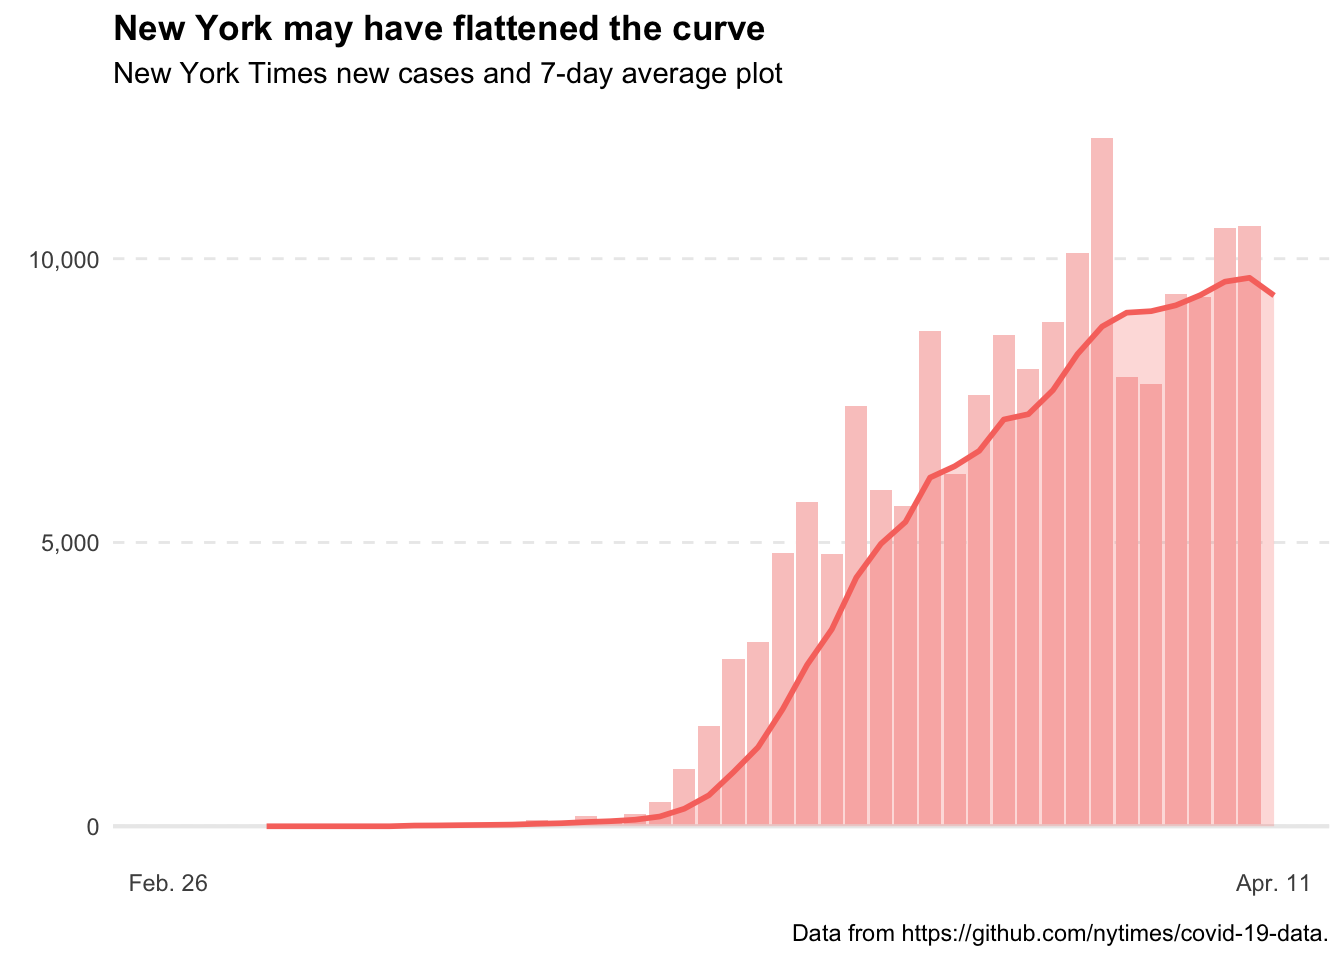
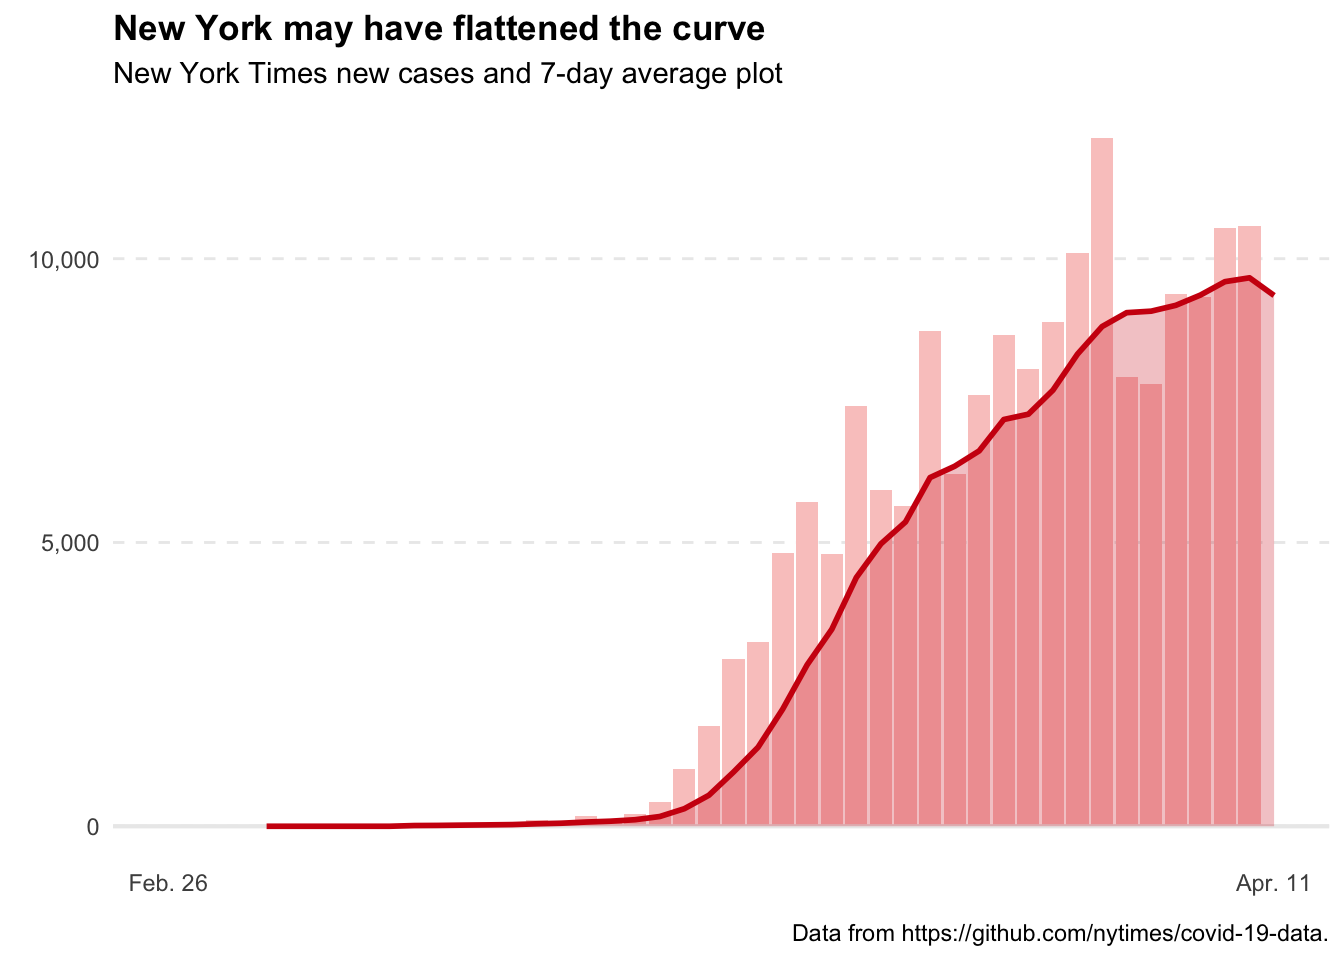
Minor edits and fixed the line color (outside of aes()).

diff --git a/public/post/covid-19-new-york-times-plots/index.html b/public/post/covid-19-new-york-times-plots/index.html
@@ -52,18 +52,18 @@
   <h1> COVID-19 New York Times plots </h1>
 
   <div id=sub-header>
-    Sunday, April 12, 2020 · 6 minute read
+    Sunday, April 12, 2020 · 7 minute read
   </div>
 
   <div class="entry-content">
     
 
 
-<p>The New York Times has produced some really great maps and plots in its efforts to track the coronavirus in the U.S. One plot in particular that caught my attention is the histogram of new cases with a 7-day average line overlayed found at the top of this <a href="https://www.nytimes.com/interactive/2020/us/coronavirus-us-cases.html">page</a> (and subsequent state pages).</p>
-<p>Why not try to replicate that? I would also like to try to facet this plot out with all 50 states.</p>
-<div id="making-the-histogram" class="section level2">
-<h2>Making the histogram</h2>
-<p>Making the histogram of new cases shouldn’t be too difficult. I am going to use New York as my first state. Conveniently enough, The New York Times has a Github site where we can download the state-level data that creates the maps and plots on their site.</p>
+<p>The New York Times has produced some really great maps and plots in its efforts to track the coronavirus in the U.S. One plot in particular that caught my attention is the histogram (actually more like a bar plot) of new cases with a 7-day average line overlayed found at the top of this <a href="https://www.nytimes.com/interactive/2020/us/coronavirus-us-cases.html">page</a>.</p>
+<p>Why not try to replicate this? I would also like to try to facet this plot out with all 50 states.</p>
+<div id="making-the-histogram-bar-plot" class="section level2">
+<h2>Making the histogram (bar plot)</h2>
+<p>Making the histogram of new cases shouldn’t be too difficult. I am going to use New York as my first state. Conveniently enough, The New York Times has a Github site where we can download the state-level data that creates the maps and plots on their site. I’ll also use <code>geom_col</code> because each bar is just one day, so there are no bins needed.</p>
 <pre class="r"><code>library(tidyverse)
 library(lubridate)
 library(scales)
@@ -99,13 +99,13 @@ covid</code></pre>
 covid_processed %&gt;% 
   filter(state == &quot;New York&quot;) %&gt;% 
   ggplot(aes(x = date, y = new_cases)) +
-  geom_histogram(stat = &quot;identity&quot;)</code></pre>
+  geom_col()</code></pre>
 <p><img src="../../post/2020-04-12-covid-19-new-york-times-plots_files/figure-html/unnamed-chunk-3-1.png" width="672" /></p>
 <p>I haven’t done any scaling or labeling, but this looks like the same histogram as the one at the top of the <a href="https://www.nytimes.com/interactive/2020/us/new-york-coronavirus-cases.html">New York state-specific page</a>, so we’re on the right track. Let’s see if I can color, scale, and label it the same way as NYT now.</p>
 <pre class="r"><code>covid_processed %&gt;% 
   filter(state == &quot;New York&quot;) %&gt;% 
   ggplot(aes(x = date, y = new_cases)) +
-  geom_histogram(stat = &quot;identity&quot;, fill = &quot;#FAC9C7&quot;) +
+  geom_col(fill = &quot;#FAC9C7&quot;) +
   geom_hline(yintercept = 0, size = 0.75, color = &quot;gray92&quot;) +
   scale_x_date(limits = date(c(&quot;2020-02-26&quot;, &quot;2020-04-11&quot;)),
                breaks = date(c(&quot;2020-02-26&quot;, &quot;2020-04-11&quot;)),
@@ -164,14 +164,14 @@ covid_processed &lt;- covid_processed %&gt;%
 p +
   geom_line(aes(y = seven_avg))</code></pre>
 <p><img src="../../post/2020-04-12-covid-19-new-york-times-plots_files/figure-html/unnamed-chunk-7-1.png" width="672" /></p>
-<p>Nice! Okay, now let’s doctor that line up to look like the NYT plot. Here, rather than add to the <code>ggplot</code> object, <code>p</code>, I’m going to rebuild the entire plot. However, it can be helpful sometimes when working on a plot to save a portion of it, and continue to build on it. Furthermore, since it’s a list object, you can edit elements of the list, like I did to update the data above.</p>
+<p>Nice! Okay, now let’s doctor that line up to look like the NYT plot. Here, rather than add to the <code>ggplot</code> object, <code>p</code>, I’m going to rebuild the entire plot. However, it can be helpful sometimes when working on a plot to save a portion of it, and continue to build on it. Furthermore, since it’s a list object, we can edit elements of the list, like I did to update the data above.</p>
 <pre class="r"><code>covid_processed %&gt;% 
   filter(state == &quot;New York&quot;) %&gt;% 
   ggplot(aes(x = date, y = new_cases)) +
-  geom_histogram(stat = &quot;identity&quot;, fill = &quot;#FAC9C7&quot;) +
+  geom_col(fill = &quot;#FAC9C7&quot;) +
   geom_hline(yintercept = 0, size = 0.75, color = &quot;gray92&quot;) +
-  geom_line(aes(y = seven_avg, color = &quot;#CF1010&quot;), size = 1) +
-  geom_area(aes(y = seven_avg, fill = &quot;#CF1010&quot;), alpha = 0.25) +
+  geom_line(aes(y = seven_avg), color = &quot;#CF1010&quot;, size = 1) +
+  geom_area(aes(y = seven_avg), fill = &quot;#CF1010&quot;, alpha = 0.25) +
   scale_x_date(limits = date(c(&quot;2020-02-26&quot;, &quot;2020-04-11&quot;)),
                breaks = date(c(&quot;2020-02-26&quot;, &quot;2020-04-11&quot;)),
                labels = date_format(format = &quot;%b. %d&quot;),
@@ -200,8 +200,8 @@ p +
   ggplot(aes(x = date, y = new_cases)) +
   geom_histogram(stat = &quot;identity&quot;, fill = &quot;#FAC9C7&quot;) +
   geom_hline(yintercept = 0, size = 0.75, color = &quot;gray92&quot;) +
-  geom_line(aes(y = seven_avg, color = &quot;#CF1010&quot;), size = 1) +
-  geom_area(aes(y = seven_avg, fill = &quot;#CF1010&quot;), alpha = 0.25) +
+  geom_line(aes(y = seven_avg), color = &quot;#CF1010&quot;, size = 1) +
+  geom_area(aes(y = seven_avg), fill = &quot;#CF1010&quot;, alpha = 0.25) +
   scale_x_date(limits = date(c(&quot;2020-02-26&quot;, &quot;2020-04-11&quot;)),
                breaks = date(c(&quot;2020-02-26&quot;, &quot;2020-04-11&quot;)),
                labels = date_format(format = &quot;%b. %d&quot;),
@@ -221,7 +221,7 @@ p +
         legend.position = &quot;none&quot;
   )</code></pre>
 <p><img src="../../post/2020-04-12-covid-19-new-york-times-plots_files/figure-html/unnamed-chunk-9-1.png" width="672" /></p>
-<p>I hope this tutorial was helpful; I feel the best way to get better at <code>ggplot2</code> is to find plots on the internet you like, and try to recreate them in R.</p>
+<p>I hope this tutorial was helpful; I feel the best way to get better at <code>ggplot2</code> is to find plots on the internet I like, and try to recreate them in R.</p>
 <p>Lastly, I want to say happy Easter to you all. During this time, it can be difficult to find hope, but in the story of Jesus we find a message of light in the midst of darkness.</p>
 </div>
 

diff --git a/content/post/2020-04-12-covid-19-new-york-times-plots.html b/content/post/2020-04-12-covid-19-new-york-times-plots.html
@@ -11,11 +11,11 @@ tags:
 
 
 
-<p>The New York Times has produced some really great maps and plots in its efforts to track the coronavirus in the U.S. One plot in particular that caught my attention is the histogram of new cases with a 7-day average line overlayed found at the top of this <a href="https://www.nytimes.com/interactive/2020/us/coronavirus-us-cases.html">page</a> (and subsequent state pages).</p>
-<p>Why not try to replicate that? I would also like to try to facet this plot out with all 50 states.</p>
-<div id="making-the-histogram" class="section level2">
-<h2>Making the histogram</h2>
-<p>Making the histogram of new cases shouldn’t be too difficult. I am going to use New York as my first state. Conveniently enough, The New York Times has a Github site where we can download the state-level data that creates the maps and plots on their site.</p>
+<p>The New York Times has produced some really great maps and plots in its efforts to track the coronavirus in the U.S. One plot in particular that caught my attention is the histogram (actually more like a bar plot) of new cases with a 7-day average line overlayed found at the top of this <a href="https://www.nytimes.com/interactive/2020/us/coronavirus-us-cases.html">page</a>.</p>
+<p>Why not try to replicate this? I would also like to try to facet this plot out with all 50 states.</p>
+<div id="making-the-histogram-bar-plot" class="section level2">
+<h2>Making the histogram (bar plot)</h2>
+<p>Making the histogram of new cases shouldn’t be too difficult. I am going to use New York as my first state. Conveniently enough, The New York Times has a Github site where we can download the state-level data that creates the maps and plots on their site. I’ll also use <code>geom_col</code> because each bar is just one day, so there are no bins needed.</p>
 <pre class="r"><code>library(tidyverse)
 library(lubridate)
 library(scales)
@@ -51,13 +51,13 @@ covid</code></pre>
 covid_processed %&gt;% 
   filter(state == &quot;New York&quot;) %&gt;% 
   ggplot(aes(x = date, y = new_cases)) +
-  geom_histogram(stat = &quot;identity&quot;)</code></pre>
+  geom_col()</code></pre>
 <p><img src="/post/2020-04-12-covid-19-new-york-times-plots_files/figure-html/unnamed-chunk-3-1.png" width="672" /></p>
 <p>I haven’t done any scaling or labeling, but this looks like the same histogram as the one at the top of the <a href="https://www.nytimes.com/interactive/2020/us/new-york-coronavirus-cases.html">New York state-specific page</a>, so we’re on the right track. Let’s see if I can color, scale, and label it the same way as NYT now.</p>
 <pre class="r"><code>covid_processed %&gt;% 
   filter(state == &quot;New York&quot;) %&gt;% 
   ggplot(aes(x = date, y = new_cases)) +
-  geom_histogram(stat = &quot;identity&quot;, fill = &quot;#FAC9C7&quot;) +
+  geom_col(fill = &quot;#FAC9C7&quot;) +
   geom_hline(yintercept = 0, size = 0.75, color = &quot;gray92&quot;) +
   scale_x_date(limits = date(c(&quot;2020-02-26&quot;, &quot;2020-04-11&quot;)),
                breaks = date(c(&quot;2020-02-26&quot;, &quot;2020-04-11&quot;)),
@@ -116,14 +116,14 @@ covid_processed &lt;- covid_processed %&gt;%
 p +
   geom_line(aes(y = seven_avg))</code></pre>
 <p><img src="/post/2020-04-12-covid-19-new-york-times-plots_files/figure-html/unnamed-chunk-7-1.png" width="672" /></p>
-<p>Nice! Okay, now let’s doctor that line up to look like the NYT plot. Here, rather than add to the <code>ggplot</code> object, <code>p</code>, I’m going to rebuild the entire plot. However, it can be helpful sometimes when working on a plot to save a portion of it, and continue to build on it. Furthermore, since it’s a list object, you can edit elements of the list, like I did to update the data above.</p>
+<p>Nice! Okay, now let’s doctor that line up to look like the NYT plot. Here, rather than add to the <code>ggplot</code> object, <code>p</code>, I’m going to rebuild the entire plot. However, it can be helpful sometimes when working on a plot to save a portion of it, and continue to build on it. Furthermore, since it’s a list object, we can edit elements of the list, like I did to update the data above.</p>
 <pre class="r"><code>covid_processed %&gt;% 
   filter(state == &quot;New York&quot;) %&gt;% 
   ggplot(aes(x = date, y = new_cases)) +
-  geom_histogram(stat = &quot;identity&quot;, fill = &quot;#FAC9C7&quot;) +
+  geom_col(fill = &quot;#FAC9C7&quot;) +
   geom_hline(yintercept = 0, size = 0.75, color = &quot;gray92&quot;) +
-  geom_line(aes(y = seven_avg, color = &quot;#CF1010&quot;), size = 1) +
-  geom_area(aes(y = seven_avg, fill = &quot;#CF1010&quot;), alpha = 0.25) +
+  geom_line(aes(y = seven_avg), color = &quot;#CF1010&quot;, size = 1) +
+  geom_area(aes(y = seven_avg), fill = &quot;#CF1010&quot;, alpha = 0.25) +
   scale_x_date(limits = date(c(&quot;2020-02-26&quot;, &quot;2020-04-11&quot;)),
                breaks = date(c(&quot;2020-02-26&quot;, &quot;2020-04-11&quot;)),
                labels = date_format(format = &quot;%b. %d&quot;),
@@ -152,8 +152,8 @@ p +
   ggplot(aes(x = date, y = new_cases)) +
   geom_histogram(stat = &quot;identity&quot;, fill = &quot;#FAC9C7&quot;) +
   geom_hline(yintercept = 0, size = 0.75, color = &quot;gray92&quot;) +
-  geom_line(aes(y = seven_avg, color = &quot;#CF1010&quot;), size = 1) +
-  geom_area(aes(y = seven_avg, fill = &quot;#CF1010&quot;), alpha = 0.25) +
+  geom_line(aes(y = seven_avg), color = &quot;#CF1010&quot;, size = 1) +
+  geom_area(aes(y = seven_avg), fill = &quot;#CF1010&quot;, alpha = 0.25) +
   scale_x_date(limits = date(c(&quot;2020-02-26&quot;, &quot;2020-04-11&quot;)),
                breaks = date(c(&quot;2020-02-26&quot;, &quot;2020-04-11&quot;)),
                labels = date_format(format = &quot;%b. %d&quot;),
@@ -173,6 +173,6 @@ p +
         legend.position = &quot;none&quot;
   )</code></pre>
 <p><img src="/post/2020-04-12-covid-19-new-york-times-plots_files/figure-html/unnamed-chunk-9-1.png" width="672" /></p>
-<p>I hope this tutorial was helpful; I feel the best way to get better at <code>ggplot2</code> is to find plots on the internet you like, and try to recreate them in R.</p>
+<p>I hope this tutorial was helpful; I feel the best way to get better at <code>ggplot2</code> is to find plots on the internet I like, and try to recreate them in R.</p>
 <p>Lastly, I want to say happy Easter to you all. During this time, it can be difficult to find hope, but in the story of Jesus we find a message of light in the midst of darkness.</p>
 </div>

diff --git a/public/index.html b/public/index.html
@@ -59,7 +59,7 @@
         <div id=date>
           <time>April 12, 2020</time>
         </div>
-        <p>The New York Times has produced some really great maps and plots in its efforts to track the coronavirus in the U.S. One plot in particular that caught my attention is the histogram of new cases with a 7-day average line overlayed found at the top of this page (and subsequent state pages). <a href="./post/covid-19-new-york-times-plots/">Read More…</a></p>
+        <p>The New York Times has produced some really great maps and plots in its efforts to track the coronavirus in the U.S. One plot in particular that caught my attention is the histogram (actually more like a bar plot) of new cases with a 7-day average line overlayed found at the top of this page. <a href="./post/covid-19-new-york-times-plots/">Read More…</a></p>
         
       </li>
     
